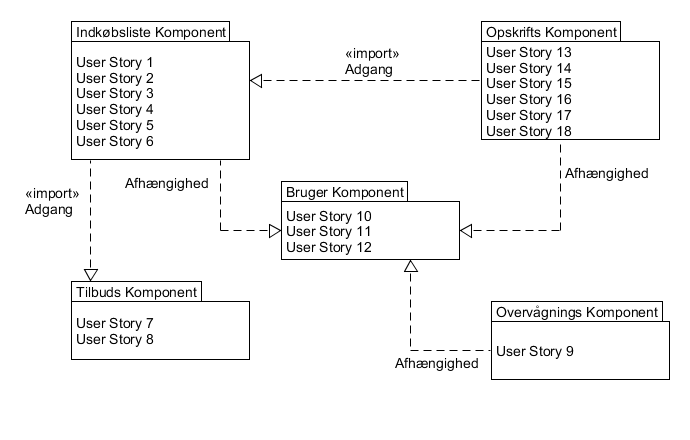
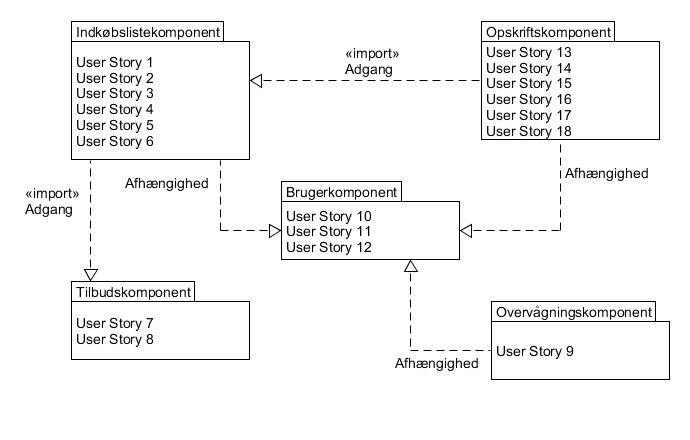
Komponenter skrevet færdigt. Klassediagram mangler.
Undskylder for mangel på branching..

diff --git a/chapters/content/Arkitektur.tex b/chapters/content/Arkitektur.tex
@@ -5,26 +5,34 @@ Først gennemgås design mønsteret der benyttes, derefter systemets klasser, sa
 
 \input{chapters/content/mvc.tex}
 
-\input{chapters/content/klassediagram.tex}
+\subsection{Program komponenter}
 
-\fxnote{De resterende komponeneter}
+Der kan dannes forskellige komponenter i programmet ud fra de user stories der blev opgivet på \myref{sec:krav}. 
+Disse kan ses på figur \myref{figure:komp}.
+Figuren viser hvordan de forskellige user stories kan deles op i komponenter, og hvordan disse komponenter afhænger og bruger hinanden som beskrevet ud fra vores user stories.
 
-Der kan dannes forskellige komponenter i systemet ud fra de user stories der blev opgivet på \myref{sec:krav}. 
-Disse kan ses på figur \myref{figure:komp}
-
-\begin{wrapfigure}{r}{0.6\textwidth}
+\begin{figure}
+	
 	\vspace{-20pt}
 	\begin{center}
-		\includegraphics[width=0.6\textwidth]{images/Diagrams/Komponenter.png}
+		\includegraphics[scale=0.6]{images/Diagrams/Komponenter.png}
 	\end{center}
 	\vspace{-20pt}
-	\caption{Komponeneter i systemet.}
+	\caption{UML 2 Komponent diagram }
 	\label{figure:komp}
 	\vspace{-20pt}
-\end{wrapfigure}
+\end{figure}
 
-Her tænker jeg at dele use cases op i forskellige dele.
-F.eks. et UserManagement Komponent, der sørger for at man kan logge ind og have præferencer osv.
-Og et shoppingliste komponent der styrer indkøbslisten, tilføjelse og deling af varer her. Der vil så være en forbindelse imellem user management og shoppingliste, til at forbinde disse til de rigtige personer osv. og forklarer det ud på den måde og endelig med et UML diagram som viser forbindelserne imellem komponenterne.
+\textbf{Indkøbslistekomponentet} står for at lave indkøbslister, og tilføje varer og tilbud til disse.
+Tilbudene skal importeres fra \textbf{tilbudskomponentet}, for at lave koblingen imellem varerne og tilbud.
+Det er afhængigt af \textbf{brugerkomponentet} da indkøbslisterne hører til en bruger for at danne personlige lister. Brugerkomponentet er ansvarlig for alt der har med en bruger at gøre. Det indebærer at registrere hvem der er logget på, håndtere brugerens personlige indstillinger. Det er altså dette komponent der sørger for den personlige oplevelse på hjemmesiden.
 
-User forbinder sig jo til -> Indkøbslister, Opskrifter(her indgår vurdering også i opskrifts komponentet), hvor tilbud forbinder sig til varer som så forbinder sig til shoppinglisterne hvor i varerne også indgår. Vil jeg tro. Dette skal vi diskutere, hvilke komponenter findes der, når vi ser på det fra user stories. Dette vil danne og vise sammenhæng i implementationen af systemet.
+\textbf{Opskriftskomponentet} er afhængig af brugerkomponentet, da det er brugerene i systemet der tilføjer opskrifter, samt giver opskrifterne en rating. 
+Dog er det opskriftskomponentet der står for dette, men det skal dog vide hvem der er logget ind på hjemmesiden. 
+Der er en adgang her fra til indkøbslisterne for at kunne tilføje ingredienser fra opskrifterne til indkøbslister.
+
+\textbf{Overvågningskomponentet} står for at overvågningen af tilbud for en specifik varer kan foregå. 
+Der dannes en afhængighed herfra og til indkøbslistekomponentet da overvågningslisten gør brug af de metoder som der stilles til rådighed i dette komponenet, såsom tilføje varer, og finde tilbud.
+
+
+\input{chapters/content/klassediagram.tex}
